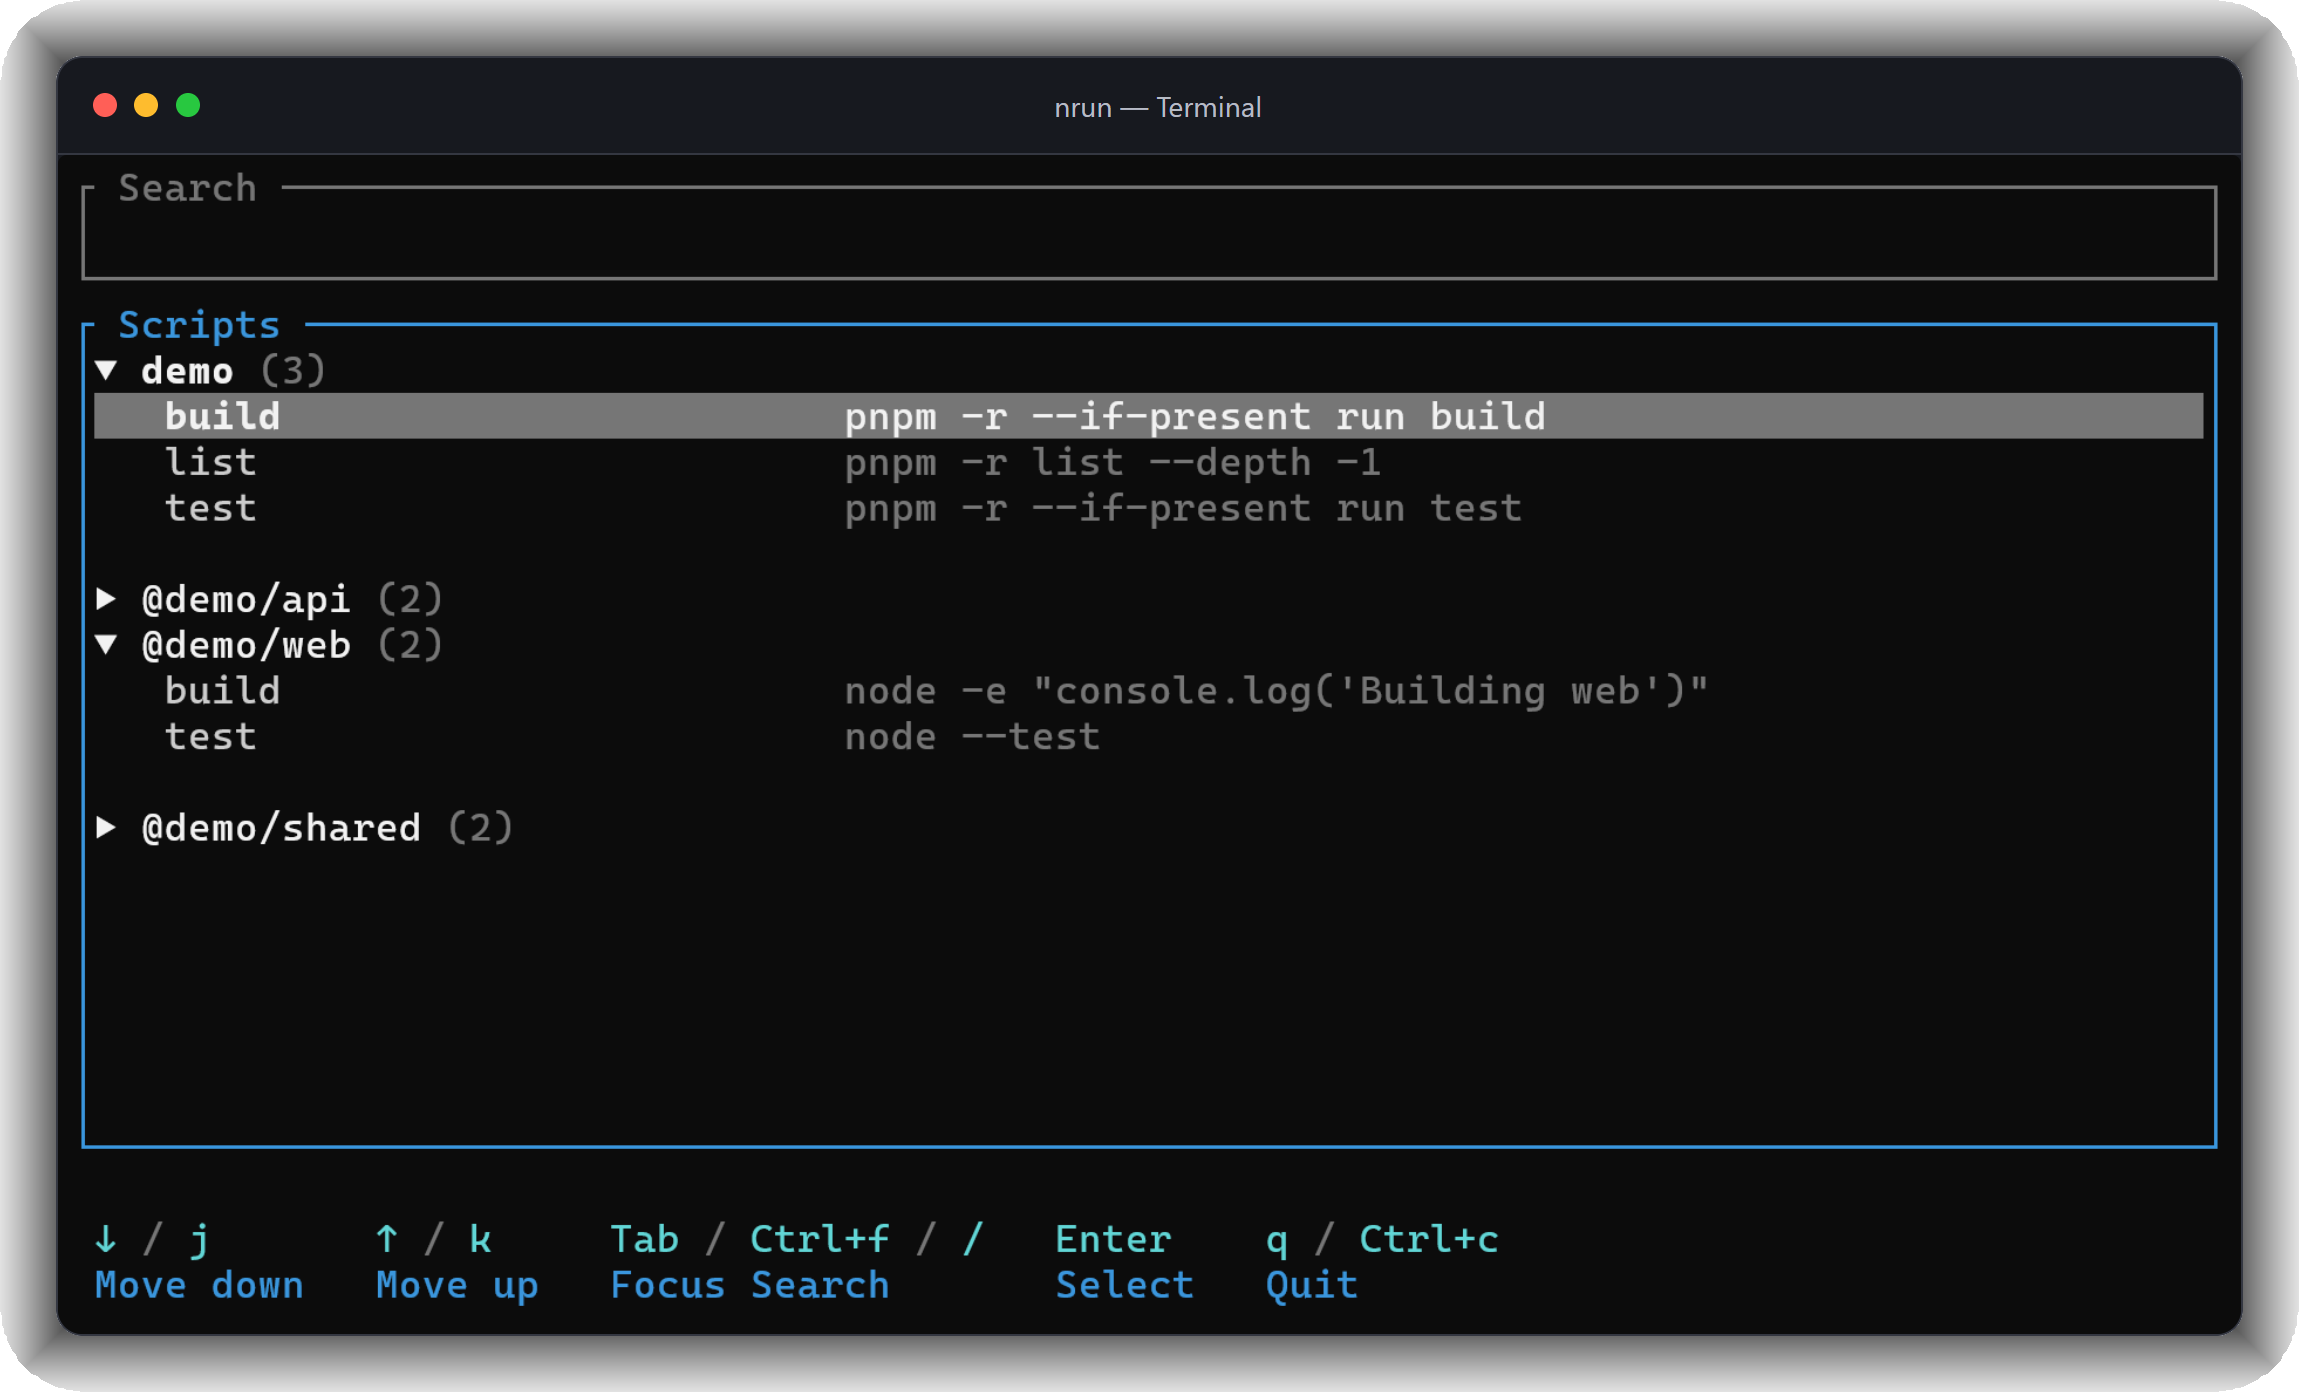
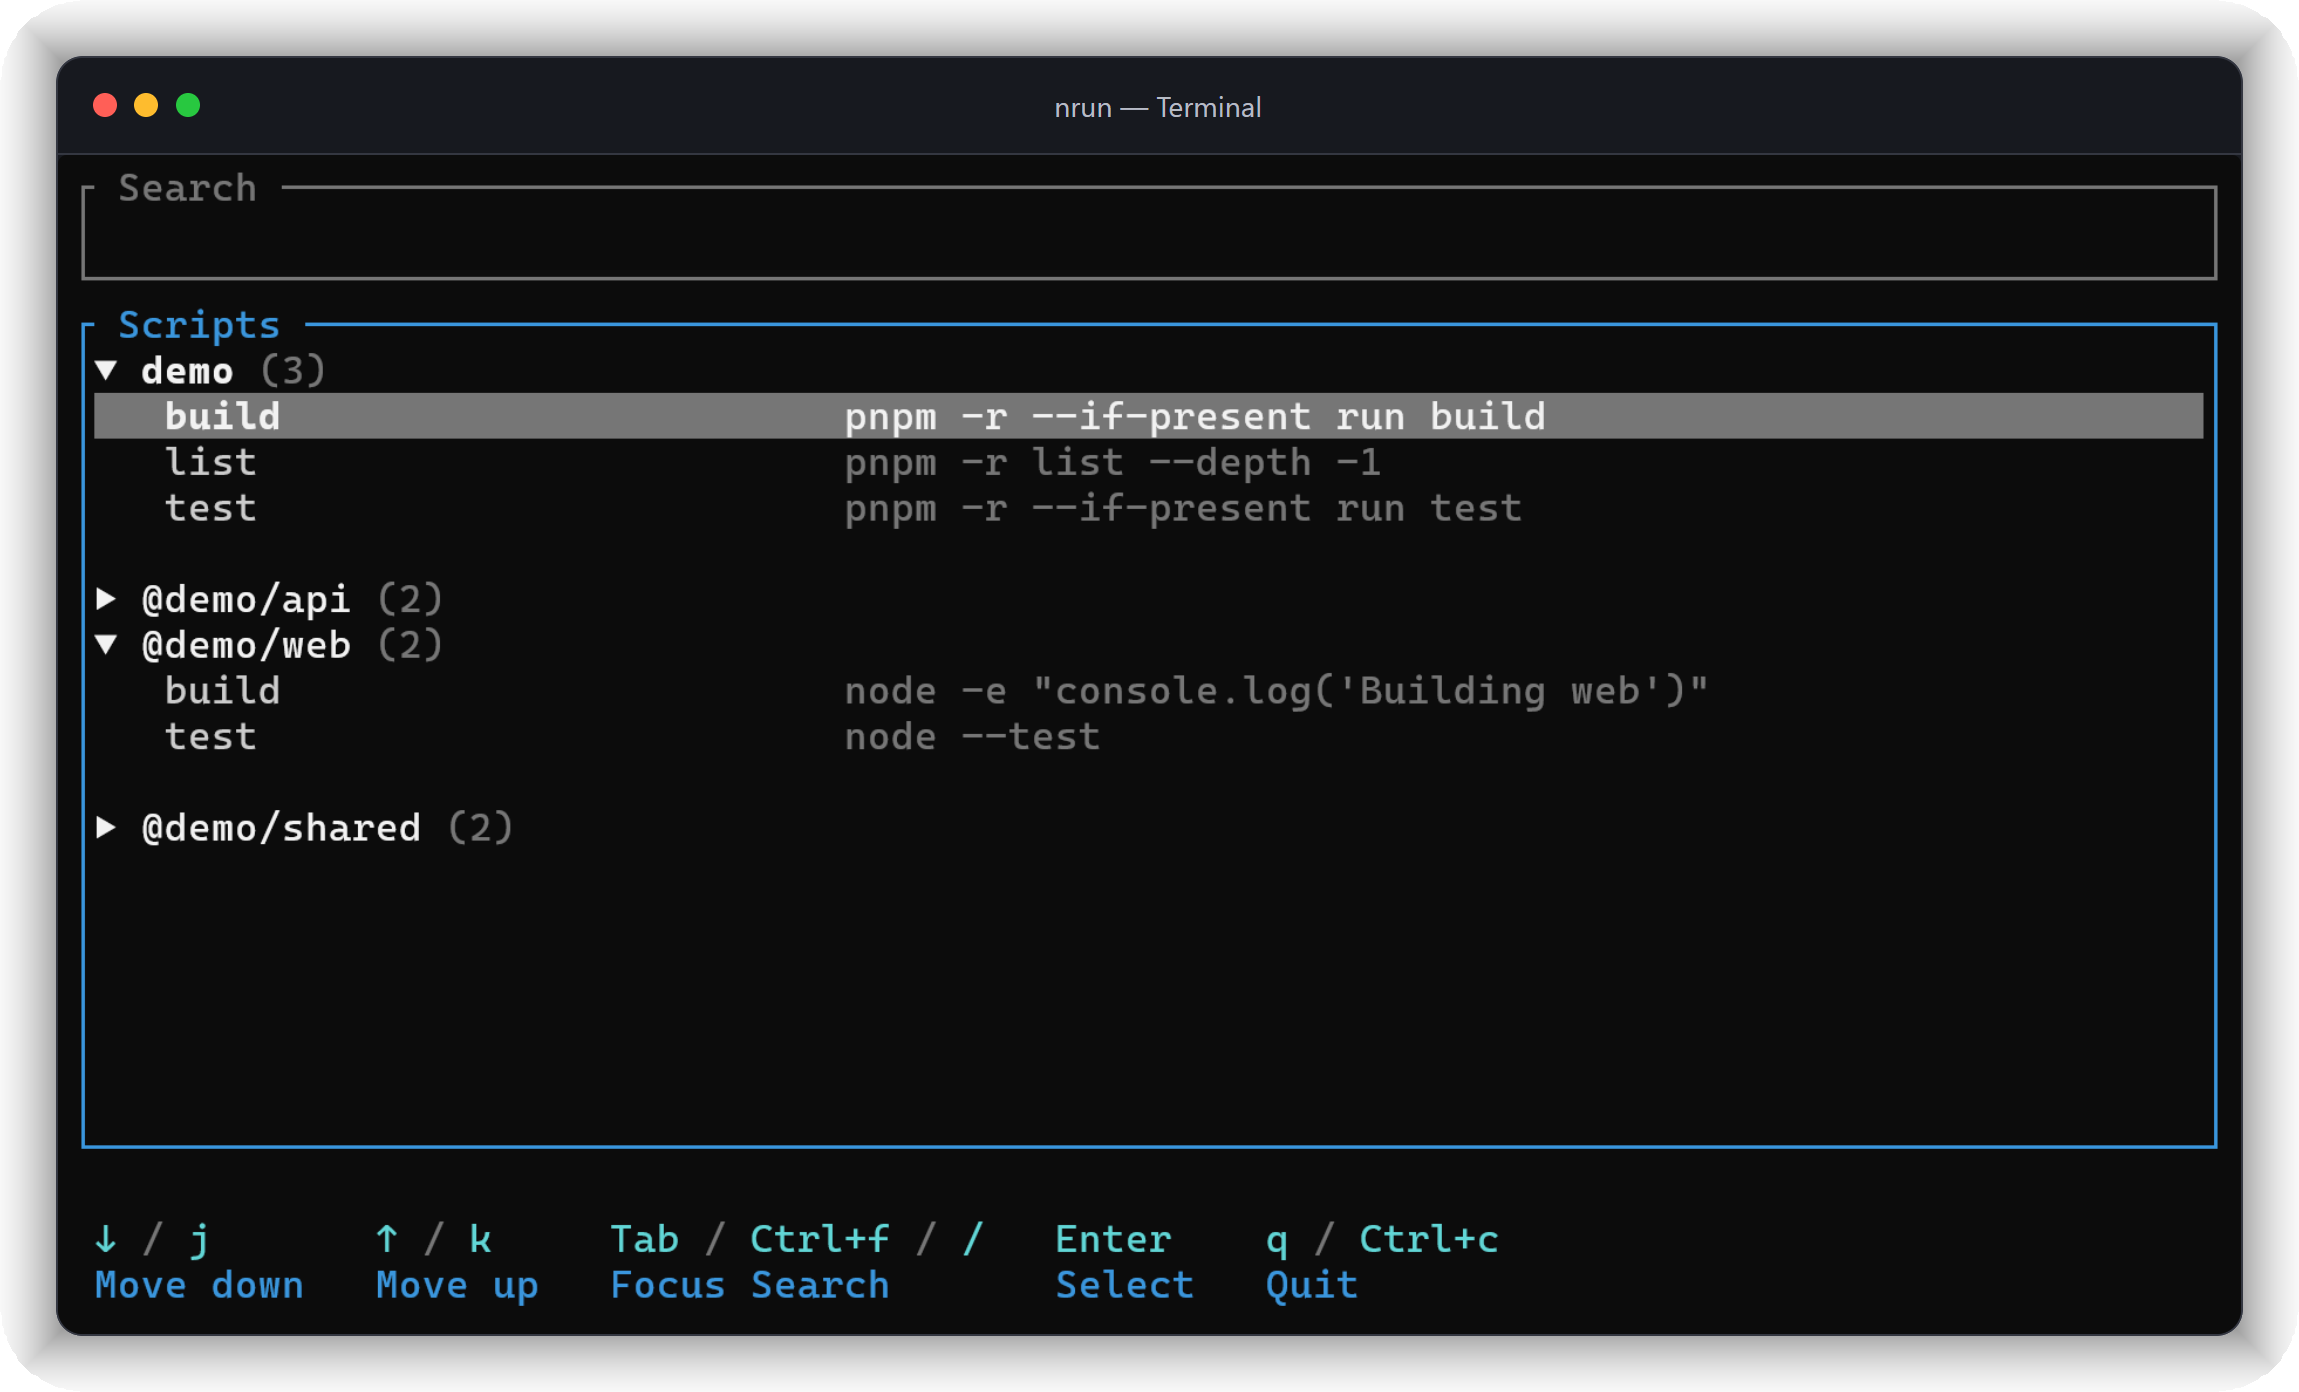
fix: lower opacity of box shadow around demo image

Changed region(s): [[0.0, 0.0, 1.0, 1.0]]

diff --git a/tools/demo-image/build-shadow.py b/tools/demo-image/build-shadow.py
@@ -48,7 +48,7 @@ for y in range(height):
         # Smoothstep interpolation.
         fade = 1.0 - t * t * (3.0 - 2.0 * t)
 
-        new_alpha = round(a * max_opacity * (2 * fade)**2)
+        new_alpha = round(a * max_opacity * (1.5*fade)**3)
         pixels[x, y] = (0, 0, 0, new_alpha) # type: ignore
 
 img.save("shadow-faded.png")
